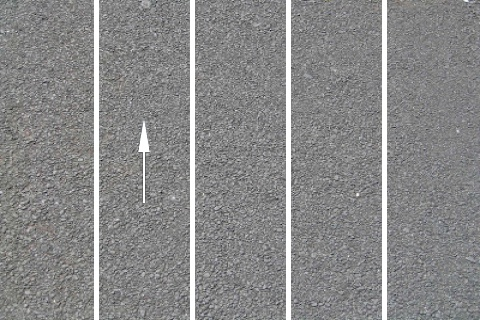
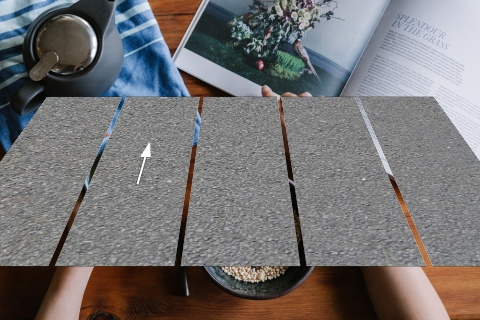
WWarp Perspective added!

diff --git a/GenerateAsphalt.py b/GenerateAsphalt.py
@@ -6,10 +6,11 @@ import math
 # Experimental values
 WIDTH, HEIGHT = 480, 320
 IMAGE_COUNT = 0
-DIVISIONS = 3
+DIVISIONS = 30
 PATH_ASFALTO  = 'asfalto.jpg'
 PATH_TEMPLATE = 'template.png'
 PATH_WEIRD = 'background.jpg'
+ROTATION_DEGREES = -60
 
 def show_image(image):
     cv2.imshow('image', image)
@@ -126,6 +127,55 @@ def transparent_overlay(background, foreground):
 
     return img
 
+def rotate(image, theta, phi, gamma, dx, dy, dz):
+    h, w, _ = image.shape
+
+    d = np.sqrt(h**2 + w**2)
+    focal = d / (2 * np.sin(gamma) if np.sin(gamma) != 0 else 1)
+    dz = focal
+    f = focal
+
+    # 2D to 3D
+    A1 = np.array([[1,    0, -w/2],
+                   [0,    1, -h/2],
+                   [0,    0,    1],
+                   [0,    0,    1]])
+    
+    # Rotating X, Y and Z
+    RX = np.array([[1, 0, 0, 0],
+                   [0, np.cos(theta), -np.sin(theta), 0],
+                   [0, np.sin(theta), np.cos(theta), 0],
+                   [0, 0, 0, 1]])
+        
+    RY = np.array([[np.cos(phi), 0, -np.sin(phi), 0],
+                   [0, 1, 0, 0],
+                   [np.sin(phi), 0, np.cos(phi), 0],
+                   [0, 0, 0, 1]])
+    
+    RZ = np.array([[np.cos(gamma), -np.sin(gamma), 0, 0],
+                   [np.sin(gamma), np.cos(gamma), 0, 0],
+                   [0, 0, 1, 0],
+                   [0, 0, 0, 1]])
+
+    # Composing R matrix
+    R = np.dot(np.dot(RX, RY), RZ)
+    # Translation matrix
+    T = np.array([[1, 0, 0, dx],
+                  [0, 1, 0, dy],
+                  [0, 0, 1, dz],
+                  [0, 0, 0, 1]])
+    # Converting 3D to 2D again
+    A2 = np.array([[f, 0, w/2, 0],
+                   [0, f, h/2, 0],
+                   [0, 0, 1, 0]])
+
+    # Final transformation matrix
+    TM = np.dot(A2, np.dot(T, np.dot(R, A1)))
+
+    # Using cv2 to warp the image
+    return cv2.warpPerspective(image.copy(), TM, (w, h))
+    
+
 # Testing the code:
 
 dimensions = (WIDTH, HEIGHT) # Defining the dimensions
@@ -139,7 +189,11 @@ insert_at_block(templates, DIVISIONS, math.floor(DIVISIONS/2), sample_template) 
 
 # Joining all the layers
 img = blend_layers(asphalt_bg, templates)
-img = blend_layers(weird_bg, img)
-
 simulate_blocks(img, DIVISIONS) # Small workaround, the simulate_blocks ain't working as I wanted
+
+# Warping perspective
+rotation_radians = ROTATION_DEGREES/180.00 * math.pi
+img = rotate(img, rotation_radians, 0, 0, 0, 0, 0) # Rotating the image in X
+
+img = blend_layers(weird_bg, img)
 save_image(img) # Saving the image
